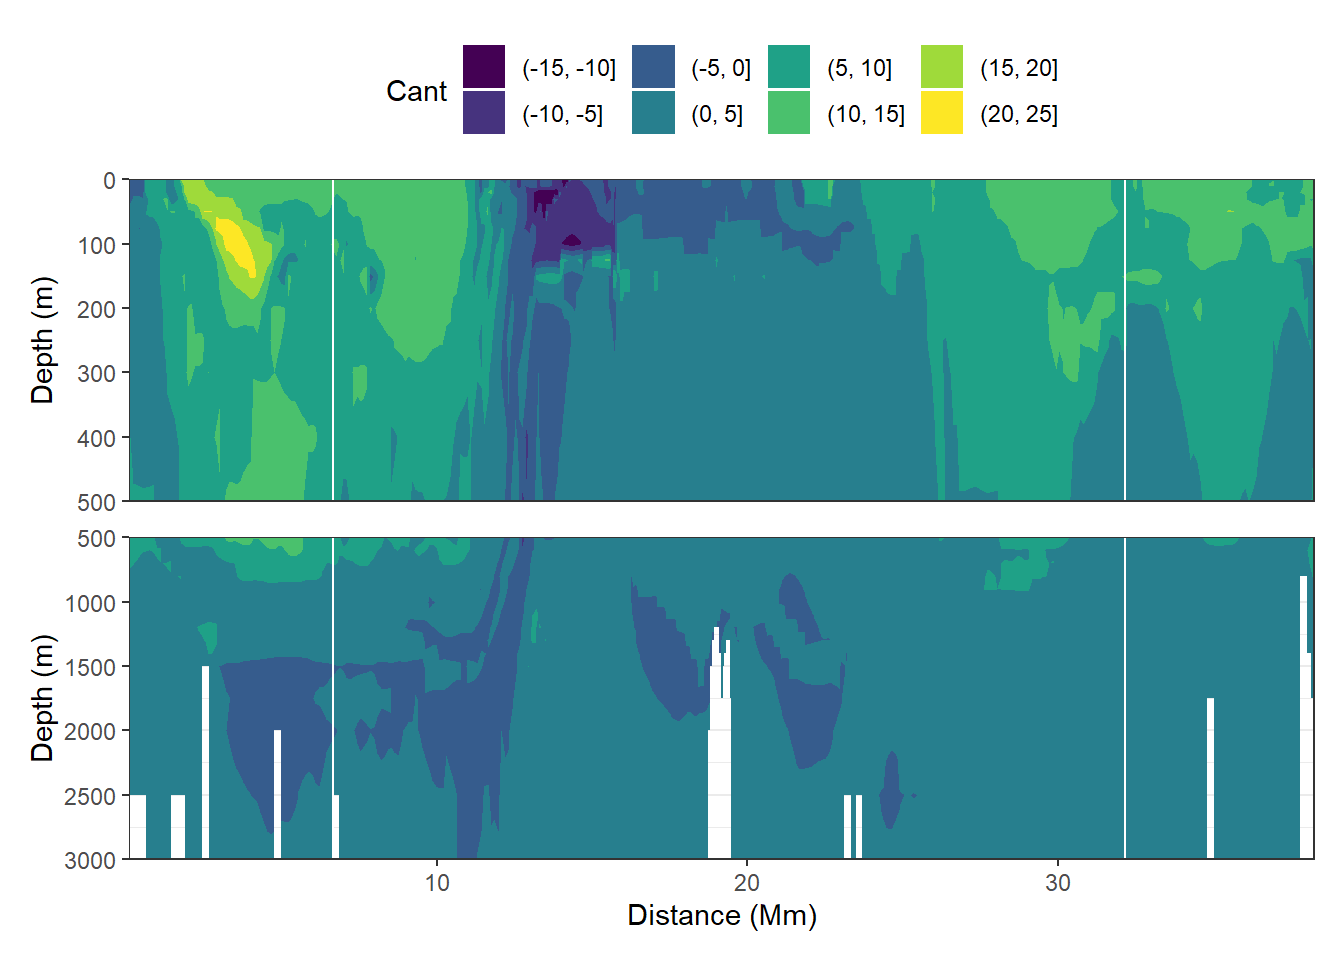
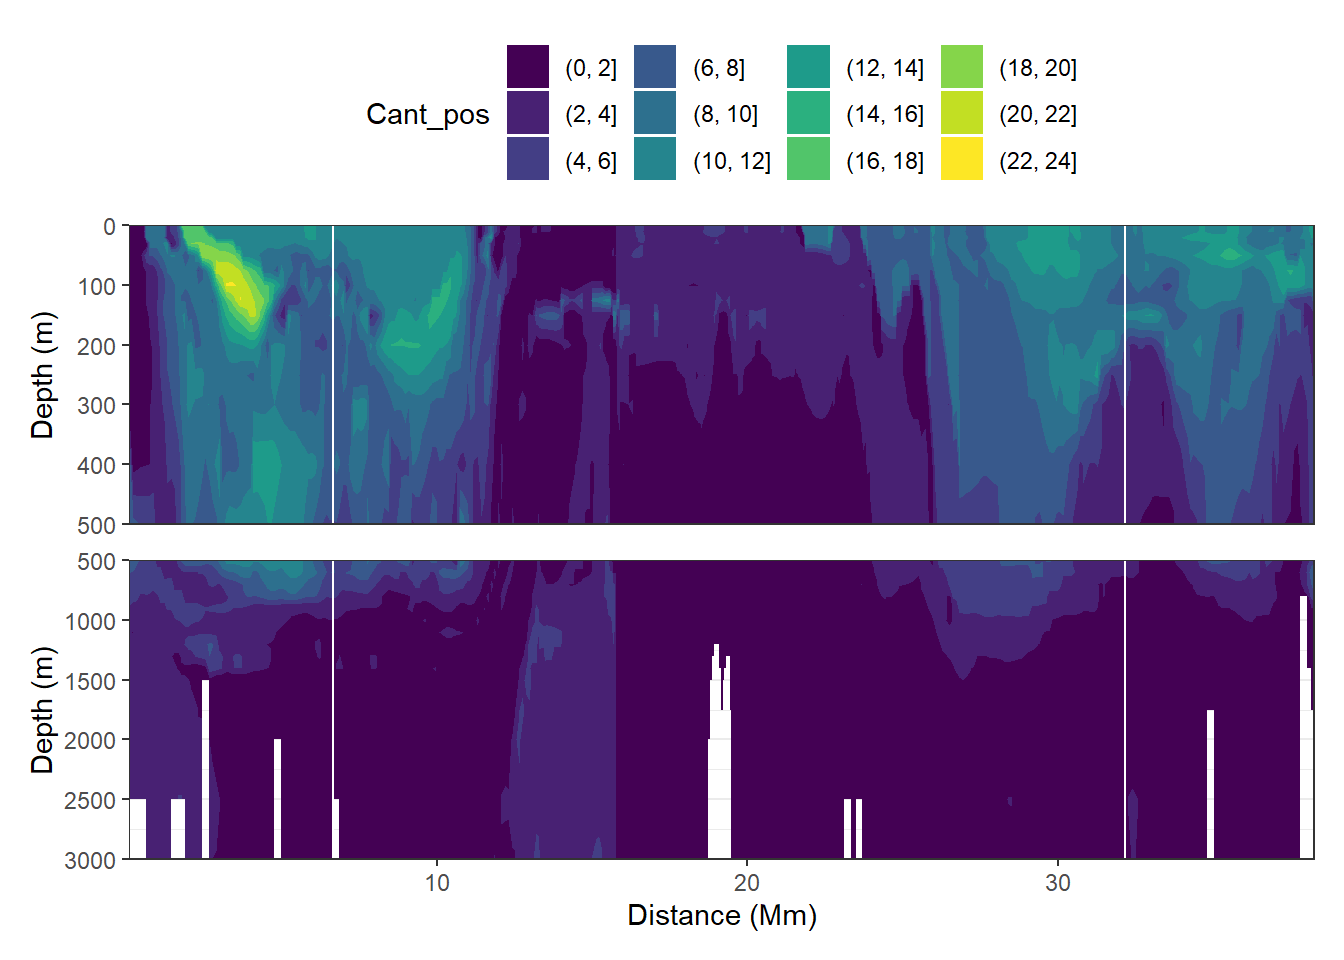
Build site.

diff --git a/docs/analysis_this_study.html b/docs/analysis_this_study.html
@@ -618,16 +618,16 @@ This reproducible <a href="http://rmarkdown.rstudio.com">R Markdown</a> analysis
 <div class="panel panel-default">
 <div class="panel-heading">
 <p class="panel-title">
-<a data-toggle="collapse" data-parent="#workflowr-checks" href="#strongRepositoryversionstrongahrefhttpsgithubcomjensdanielmuellerCanteMLRtree6ebc45501ddb14d407170a5d6a1f47e91749b276targetblank6ebc455a"> <span class="glyphicon glyphicon-ok text-success" aria-hidden="true"></span> <strong>Repository version:</strong> <a href="https://github.com/jens-daniel-mueller/Cant_eMLR/tree/6ebc45501ddb14d407170a5d6a1f47e91749b276" target="_blank">6ebc455</a> </a>
+<a data-toggle="collapse" data-parent="#workflowr-checks" href="#strongRepositoryversionstrongahrefhttpsgithubcomjensdanielmuellerCanteMLRtree39fe9d074d2f40ce8c4abcca30f755cbcb5fdc0ctargetblank39fe9d0a"> <span class="glyphicon glyphicon-ok text-success" aria-hidden="true"></span> <strong>Repository version:</strong> <a href="https://github.com/jens-daniel-mueller/Cant_eMLR/tree/39fe9d074d2f40ce8c4abcca30f755cbcb5fdc0c" target="_blank">39fe9d0</a> </a>
 </p>
 </div>
[2 lines of base64/hex data omitted]
 <div class="panel-body">
 <p>
 Great! You are using Git for version control. Tracking code development and connecting the code version to the results is critical for reproducibility.
 </p>
 <p>
-The results in this page were generated with repository version <a href="https://github.com/jens-daniel-mueller/Cant_eMLR/tree/6ebc45501ddb14d407170a5d6a1f47e91749b276" target="_blank">6ebc455</a>. See the <em>Past versions</em> tab to see a history of the changes made to the R Markdown and HTML files.
+The results in this page were generated with repository version <a href="https://github.com/jens-daniel-mueller/Cant_eMLR/tree/39fe9d074d2f40ce8c4abcca30f755cbcb5fdc0c" target="_blank">39fe9d0</a>. See the <em>Past versions</em> tab to see a history of the changes made to the R Markdown and HTML files.
 </p>
 <p>
 Note that you need to be careful to ensure that all relevant files for the analysis have been committed to Git prior to generating the results (you can use <code>wflow_publish</code> or <code>wflow_git_commit</code>). workflowr only checks the R Markdown file, but you know if there are other scripts or data files that it depends on. Below is the status of the Git repository when the results were generated:
@@ -684,6 +684,40 @@ Message
 </tr>
 </thead>
 <tbody>
+<tr>
+<td>
+Rmd
+</td>
+<td>
+<a href="https://github.com/jens-daniel-mueller/Cant_eMLR/blob/39fe9d074d2f40ce8c4abcca30f755cbcb5fdc0c/analysis/analysis_this_study.Rmd" target="_blank">39fe9d0</a>
+</td>
+<td>
+jens-daniel-mueller
+</td>
+<td>
+2020-09-18
+</td>
+<td>
+rearranged plots
+</td>
+</tr>
+<tr>
+<td>
+html
+</td>
+<td>
+<a href="https://rawcdn.githack.com/jens-daniel-mueller/Cant_eMLR/96e3f0a1fde4c4dd9deeebdd3141e471f444307a/docs/analysis_this_study.html" target="_blank">96e3f0a</a>
+</td>
+<td>
+jens-daniel-mueller
+</td>
+<td>
+2020-09-18
+</td>
+<td>
+Build site.
+</td>
+</tr>
 <tr>
 <td>
 Rmd
@@ -2122,26 +2156,28 @@ Cant_inv %&gt;%
 <p><img src="figure/analysis_this_study.Rmd/Cant_all_inventory_map-1.png" width="672" style="display: block; margin: auto;" /></p>
 <pre class="r"><code>rm(breaks, breaks_n)</code></pre>
 </div>
-<div id="zonal-sections" class="section level2">
-<h2><span class="header-section-number">4.4</span> Zonal sections</h2>
-<div id="mean-standard-deviation-across-mlr-models" class="section level3">
-<h3><span class="header-section-number">4.4.1</span> Mean standard deviation across MLR models</h3>
+</div>
+<div id="cant---standard-deviation" class="section level1">
+<h1><span class="header-section-number">5</span> Cant - standard deviation</h1>
+<div id="across-models" class="section level2">
+<h2><span class="header-section-number">5.1</span> Across models</h2>
 <p>Standard deviation across Cant from all MLR models was calculate for each grid cell (XYZ). The zonal mean of this standard deviation should reflect the uncertainty associated to the predictor selection within each slab and era.</p>
 <pre class="r"><code>section_zonal_average_continous(Cant_average_zonal,
                                 &quot;Cant_sd_mean&quot;,
                                 &quot;gamma_mean&quot;)</code></pre>
 <p><img src="figure/analysis_this_study.Rmd/Cant_sections_sd_models-1.png" width="672" style="display: block; margin: auto;" /></p>
 </div>
-<div id="standard-deviation-across-basin" class="section level3">
-<h3><span class="header-section-number">4.4.2</span> Standard deviation across basin</h3>
+<div id="across-basins" class="section level2">
+<h2><span class="header-section-number">5.2</span> Across basins</h2>
 <p>Standard deviation of mean Cant values was calculate across all longitudes. This standard deviation should reflect the zonal variability of Cant within the basin and era.</p>
 <pre class="r"><code>section_zonal_average_continous(Cant_average_zonal,
                                 &quot;Cant_sd&quot;,
                                 &quot;gamma_mean&quot;)</code></pre>
 <p><img src="figure/analysis_this_study.Rmd/Cant_sections_sd_Cant-1.png" width="672" style="display: block; margin: auto;" /></p>
 </div>
-<div id="predictor-contribution" class="section level3">
-<h3><span class="header-section-number">4.4.3</span> Predictor contribution</h3>
+</div>
+<div id="cant---predictor-contribution" class="section level1">
+<h1><span class="header-section-number">6</span> Cant - predictor contribution</h1>
 <pre class="r"><code>for (variable in c(
   &quot;Cant_intercept&quot;,
   &quot;Cant_aou&quot;,
@@ -2162,30 +2198,28 @@ section_zonal_average_continous(Cant_predictor_average_zonal,
 <p><img src="figure/analysis_this_study.Rmd/Cant_section_predictor_contribution-1.png" width="672" style="display: block; margin: auto;" /><img src="figure/analysis_this_study.Rmd/Cant_section_predictor_contribution-2.png" width="672" style="display: block; margin: auto;" /><img src="figure/analysis_this_study.Rmd/Cant_section_predictor_contribution-3.png" width="672" style="display: block; margin: auto;" /><img src="figure/analysis_this_study.Rmd/Cant_section_predictor_contribution-4.png" width="672" style="display: block; margin: auto;" /><img src="figure/analysis_this_study.Rmd/Cant_section_predictor_contribution-5.png" width="672" style="display: block; margin: auto;" /><img src="figure/analysis_this_study.Rmd/Cant_section_predictor_contribution-6.png" width="672" style="display: block; margin: auto;" /><img src="figure/analysis_this_study.Rmd/Cant_section_predictor_contribution-7.png" width="672" style="display: block; margin: auto;" /><img src="figure/analysis_this_study.Rmd/Cant_section_predictor_contribution-8.png" width="672" style="display: block; margin: auto;" /></p>
 <pre class="r"><code>rm(variable)</code></pre>
 </div>
-</div>
-<div id="sections-along-path" class="section level2">
-<h2><span class="header-section-number">4.5</span> Sections along path</h2>
+<div id="cant---globale-section" class="section level1">
+<h1><span class="header-section-number">7</span> Cant - globale section</h1>
 <div id="jgofs_go" class="section level3">
-<h3><span class="header-section-number">4.5.1</span> JGOFS_GO</h3>
+<h3><span class="header-section-number">7.0.1</span> JGOFS_GO</h3>
 <pre class="r"><code>section_global(Cant_average %&gt;% filter(eras == &quot;JGOFS_GO&quot;),
-                    &quot;Cant&quot;)</code></pre>
+                    &quot;Cant_pos&quot;)</code></pre>
 <p><img src="figure/analysis_this_study.Rmd/Cant_sections_positive_mean_one_lon_JGOFS_GO-1.png" width="672" style="display: block; margin: auto;" /></p>
 </div>
 <div id="go_new" class="section level3">
-<h3><span class="header-section-number">4.5.2</span> GO_new</h3>
+<h3><span class="header-section-number">7.0.2</span> GO_new</h3>
 <pre class="r"><code>section_global(Cant_average %&gt;% filter(eras == &quot;GO_new&quot;),
-                    &quot;Cant&quot;)</code></pre>
+                    &quot;Cant_pos&quot;)</code></pre>
 <p><img src="figure/analysis_this_study.Rmd/Cant_sections_positive_mean_one_lon_GO_new-1.png" width="672" style="display: block; margin: auto;" /></p>
 </div>
 </div>
-<div id="sections-by-model" class="section level2">
-<h2><span class="header-section-number">4.6</span> Sections by model</h2>
+<div id="sections-by-model" class="section level1">
+<h1><span class="header-section-number">8</span> Sections by model</h1>
 <p>Zonal sections plots are produced for every 20° longitude, each era and for all models individually and can be downloaded <a href="https://github.com/jens-daniel-mueller/Cant_eMLR/tree/master/output/figure/mapping" target="_blank">here</a>.</p>
-</div>
 <div id="maps" class="section level2">
-<h2><span class="header-section-number">4.7</span> Maps</h2>
+<h2><span class="header-section-number">8.1</span> Maps</h2>
 <div id="surfaces" class="section level3">
-<h3><span class="header-section-number">4.7.1</span> Surfaces</h3>
+<h3><span class="header-section-number">8.1.1</span> Surfaces</h3>
 <p>Cant concentration for selected depth levels at which mapping was performed.</p>
 <pre class="r"><code>Cant_average %&gt;%
   filter(depth %in% parameters$depth_levels) %&gt;%
@@ -2201,33 +2235,9 @@ section_zonal_average_continous(Cant_predictor_average_zonal,
   facet_grid(depth ~ eras)</code></pre>
 <p><img src="figure/analysis_this_study.Rmd/Cant_depth_layer_maps-1.png" width="672" style="display: block; margin: auto;" /></p>
 </div>
-<div id="distribution-along-slab" class="section level3">
-<h3><span class="header-section-number">4.7.2</span> Distribution along slab</h3>
-<pre class="r"><code>Cant_gamma_maps &lt;- Cant_average %&gt;% 
-  group_by(lat, lon, gamma_slab, eras) %&gt;% 
-  summarise(Cant = mean(Cant, na.rm = TRUE)) %&gt;% 
-  ungroup()
-
-
-ggplot() +
-  geom_raster(data = landmask,
-              aes(lon, lat),
-              fill = &quot;grey80&quot;) +
-  geom_raster(data = Cant_gamma_maps,
-              aes(lon, lat, fill = Cant)) +
-  facet_grid(gamma_slab ~ eras) +
-  coord_quickmap(expand = 0) +
-  scale_fill_viridis_c(direction = -1) +
-  theme(axis.title = element_blank(),
-        axis.ticks = element_blank(),
-        axis.text = element_blank(),
-        legend.position = &quot;top&quot;)</code></pre>
-<p><img src="figure/analysis_this_study.Rmd/Cant_gamma_slab_maps-1.png" width="672" style="display: block; margin: auto;" /></p>
-<pre class="r"><code>rm(Cant_gamma_maps)</code></pre>
-</div>
 </div>
 <div id="cant-vs-model-sd" class="section level2">
-<h2><span class="header-section-number">4.8</span> Cant vs model SD</h2>
+<h2><span class="header-section-number">8.2</span> Cant vs model SD</h2>
 <pre class="r"><code>Cant_average %&gt;% 
   ggplot(aes(Cant, Cant_sd)) +
   geom_vline(xintercept = 0) +
@@ -2252,7 +2262,7 @@ ggplot() +
 <p><img src="figure/analysis_this_study.Rmd/Cant_vs_sd_by_basin_gamma-1.png" width="672" style="display: block; margin: auto;" /></p>
 </div>
 <div id="cant-vs-regional-sd" class="section level2">
-<h2><span class="header-section-number">4.9</span> Cant vs regional SD</h2>
+<h2><span class="header-section-number">8.3</span> Cant vs regional SD</h2>
 <pre class="r"><code>Cant_average_zonal %&gt;% 
   ggplot(aes(Cant_mean, Cant_sd)) +
   geom_vline(xintercept = 0) +
@@ -2278,9 +2288,9 @@ ggplot() +
 </div>
 </div>
 <div id="neutral-density" class="section level1">
-<h1><span class="header-section-number">5</span> Neutral density</h1>
+<h1><span class="header-section-number">9</span> Neutral density</h1>
 <div id="slab-depth" class="section level2">
-<h2><span class="header-section-number">5.1</span> Slab depth</h2>
+<h2><span class="header-section-number">9.1</span> Slab depth</h2>
 <p>Please note that:</p>
 <ul>
 <li>density slabs covering values &gt;28.1 occur by definition only either in the Atlantic or Indo-Pacific basin</li>
@@ -2314,15 +2324,15 @@ ggplot() +
 <pre class="r"><code>rm(gamma_maps, GLODAP_obs_coverage)</code></pre>
 </div>
 <div id="surface-maps" class="section level2">
-<h2><span class="header-section-number">5.2</span> Surface maps</h2>
+<h2><span class="header-section-number">9.2</span> Surface maps</h2>
 <pre class="r"><code>map_climatology(Cant_average, &quot;gamma&quot;)</code></pre>
 <p><img src="figure/analysis_this_study.Rmd/gamma_surface_map-1.png" width="672" style="display: block; margin: auto;" /></p>
 </div>
-<div id="zonal-sections-1" class="section level2">
-<h2><span class="header-section-number">5.3</span> Zonal sections</h2>
+<div id="zonal-sections" class="section level2">
+<h2><span class="header-section-number">9.3</span> Zonal sections</h2>
 <p>The mean zonal distribution of neutral densities was calculated. <strong>CAVEAT:</strong> Due to practical reasons, binning here does not include the two highest isoneutral density slabs in the Atlantic, yet.</p>
 <div id="mean" class="section level3">
-<h3><span class="header-section-number">5.3.1</span> Mean</h3>
+<h3><span class="header-section-number">9.3.1</span> Mean</h3>
 <pre class="r"><code>Cant_average_zonal %&gt;% 
   filter(eras == &quot;JGOFS_GO&quot;) %&gt;% 
   ggplot(aes(lat, depth, z = gamma_mean)) +
@@ -2342,7 +2352,7 @@ ggplot() +
 <p><img src="figure/analysis_this_study.Rmd/gamma_sections_mean-1.png" width="672" style="display: block; margin: auto;" /></p>
 </div>
 <div id="sd" class="section level3">
-<h3><span class="header-section-number">5.3.2</span> SD</h3>
+<h3><span class="header-section-number">9.3.2</span> SD</h3>
 <p>Higher SD of gamma in shallow, subtropical waters results from a more pronounced longitudinal variability.</p>
 <pre class="r"><code>Cant_average_zonal %&gt;% 
   filter(eras == &quot;JGOFS_GO&quot;) %&gt;% 
@@ -2360,7 +2370,7 @@ ggplot() +
 </div>
 </div>
 <div id="cstar" class="section level1">
-<h1><span class="header-section-number">6</span> Cstar</h1>
+<h1><span class="header-section-number">10</span> Cstar</h1>
 <pre class="r"><code>Cstar_average_zonal &lt;- Cstar_average_zonal %&gt;% 
     mutate(era = factor(era, c(&quot;JGOFS_WOCE&quot;, &quot;GO_SHIP&quot;, &quot;new_era&quot;))) 
 
